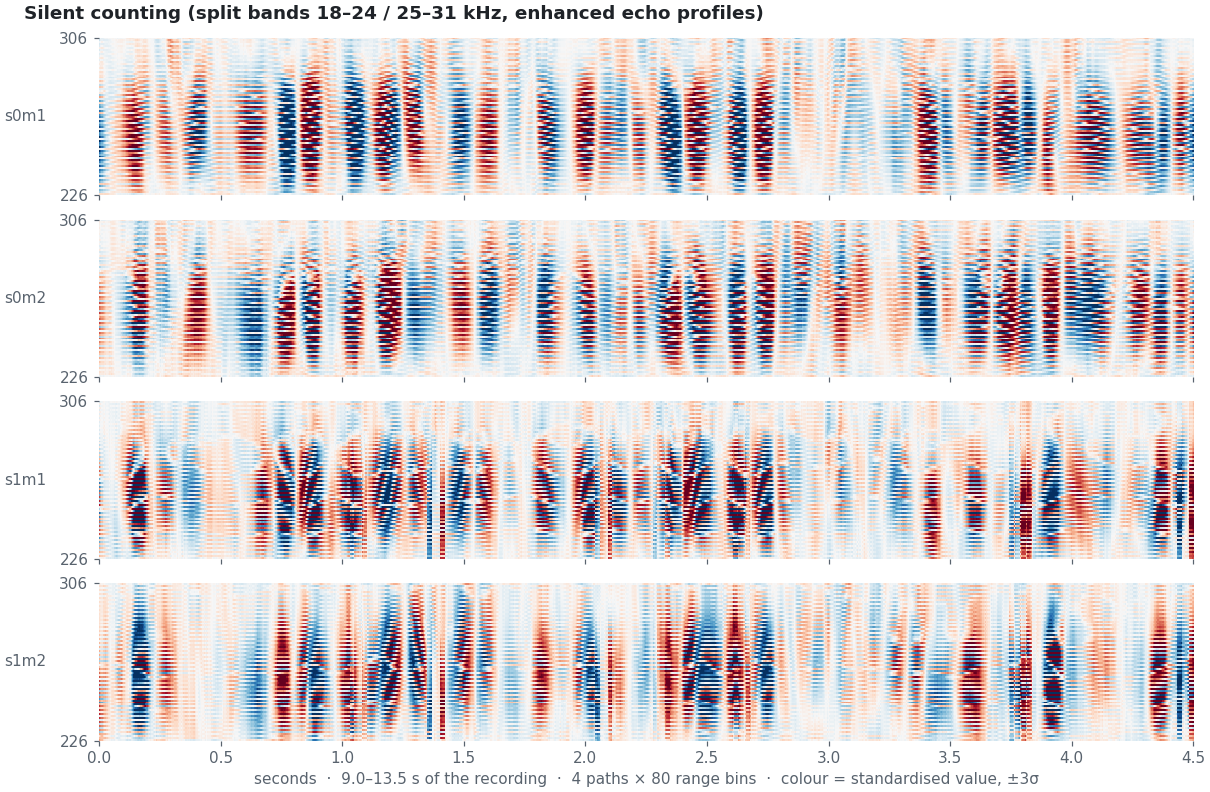
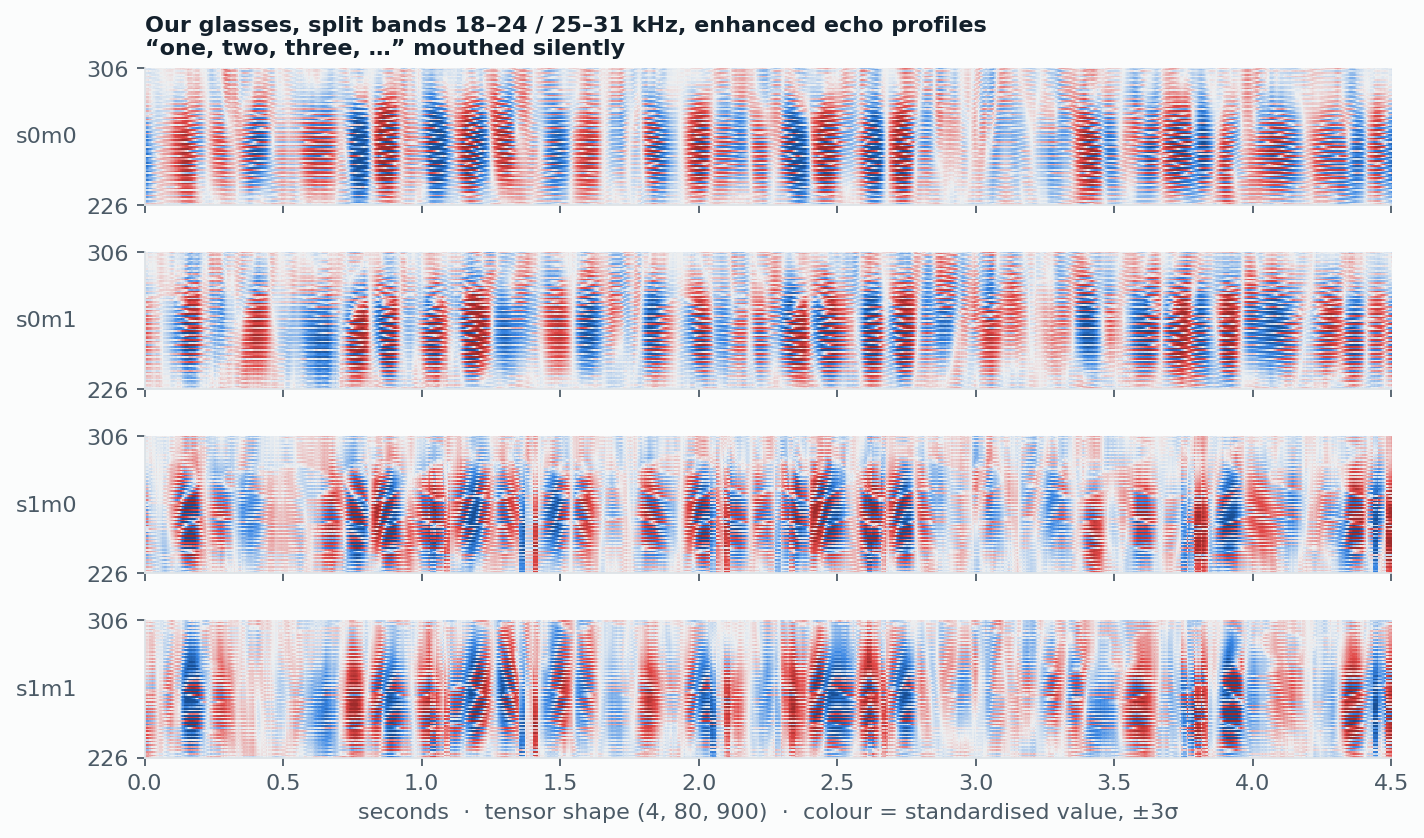
Zoom figure in the software repo's model-input style
Same diverging colour map, style and path names as sonar-glasses
make_explainer_figs.py; each path standardised over the speaking frames.

diff --git a/tools/make_figures.py b/tools/make_figures.py
@@ -96,28 +96,37 @@ def split_bands_paths():
 
 
 def split_bands_zoom(t0=9.0, t1=13.5):
-    """4.5 s of the silent counting, model crop only, each path standardised (±3 sigma)."""
+    """4.5 s of the silent counting, drawn exactly like the software repo's model-input figure
+    (sonar-glasses experiments/00_data_analysis/make_explainer_figs.py: same diverging colour map,
+    style and path names; each path standardised with mean/std over the speaking frames, ±3 sigma)."""
+    from matplotlib.colors import LinearSegmentedColormap
+    div = LinearSegmentedColormap.from_list("div", ["#184f95", "#3987e5", "#eef0f1", "#e34948", "#9e2b2b"])
+    ink, ink2, grid, plate = "#13202b", "#4b5a66", "#dde3e7", "#fbfcfc"
+    style = {"figure.facecolor": plate, "axes.facecolor": plate, "savefig.facecolor": plate,
+             "axes.edgecolor": grid, "axes.labelcolor": ink2, "xtick.color": ink2, "ytick.color": ink2,
+             "text.color": ink, "font.size": 10, "axes.titlesize": 10.5, "axes.titleweight": "semibold",
+             "axes.titlelocation": "left", "axes.spines.top": False, "axes.spines.right": False}
     prof = np.load(CAP / "sb_sb_quiet1_profiles.npy")
     E = enhanced_diff(prof)
     t = 1.2 + np.arange(prof.shape[2]) / 200
+    speak = (t >= 7.5) & (t < 18.5)
     sel = (t >= t0) & (t < t1)
-    names = ["s0m1", "s0m2", "s1m1", "s1m2"]
-    fig, ax = plt.subplots(4, 1, figsize=(11, 7.2), constrained_layout=True, sharex=True)
-    for r, (s, c) in enumerate([(0, 0), (0, 1), (1, 0), (1, 1)]):
-        full = E[s, c][:, 226:306]
-        z = (full - full.mean()) / full.std()
-        ax[r].imshow(z[sel].T, aspect="auto", origin="lower", cmap="RdBu_r", vmin=-3, vmax=3,
-                     extent=[0, t1 - t0, 226, 306], interpolation="nearest")
-        ax[r].set_yticks([226, 306])
-        ax[r].set_ylabel(names[r], rotation=0, labelpad=22, color=INK2, va="center")
-        for sp in ax[r].spines.values():
-            sp.set_visible(False)
-        ax[r].tick_params(colors=INK2)
-    ax[-1].set_xlabel(f"seconds  ·  {t0:.1f}–{t1:.1f} s of the recording  ·  4 paths × 80 range bins  ·  "
-                      "colour = standardised value, ±3σ", color=INK2)
-    fig.suptitle("Silent counting (split bands 18–24 / 25–31 kHz, enhanced echo profiles)",
-                 x=0.02, ha="left", fontsize=12, fontweight="bold", color=INK)
-    fig.savefig(IMG / "split_bands_zoom.png", dpi=110, facecolor="white")
+    with plt.rc_context(style):
+        fig, axes = plt.subplots(4, 1, figsize=(9, 5.4), sharex=True)
+        for k, (sp, mic) in enumerate([(0, 0), (0, 1), (1, 0), (1, 1)]):
+            full = E[sp, mic][:, 226:306]
+            mu, sd = full[speak].mean(), full[speak].std()
+            x = (full[sel] - mu) / sd
+            axes[k].imshow(x.T, aspect="auto", origin="lower", cmap=div, vmin=-3, vmax=3,
+                           extent=[0, x.shape[0] / 200, 226, 306], interpolation="nearest")
+            axes[k].set_ylabel(f"s{sp}m{mic}", rotation=0, ha="right", va="center")
+            axes[k].set_yticks([226, 306])
+        axes[0].set_title("Our glasses, split bands 18–24 / 25–31 kHz, enhanced echo profiles\n"
+                          "“one, two, three, …” mouthed silently", fontsize=10)
+        axes[-1].set_xlabel(f"seconds  ·  tensor shape (4, 80, {int(sel.sum())})  ·  colour = standardised value, ±3σ")
+        fig.tight_layout()
+        fig.savefig(IMG / "split_bands_zoom.png", dpi=160, bbox_inches="tight")
+        plt.close(fig)
 
 
 if __name__ == "__main__":

diff --git a/README.md b/README.md
@@ -51,8 +51,9 @@ average, 50 ms difference). Speech shows on all four paths, +6 to +15 dB above t
 
 ![Split bands, four paths, silent counting](docs/img/split_bands_4paths.png)
 
-Zoomed in: 4.5 s from the middle of the counting, the model's crop only (bins 226–306), each path
-standardised to ±3σ. Every mouthed number shows as its own burst on all four paths.
+Zoomed in: 4.5 s from the middle of the counting, the model's crop only (bins 226–306), drawn
+exactly like the software repo's model-input figure (same colour map; each path standardised over
+the speaking frames, ±3σ). Every mouthed number shows as its own burst on all four paths.
 
 ![Split bands, 4.5 s zoom, standardised](docs/img/split_bands_zoom.png)
 
